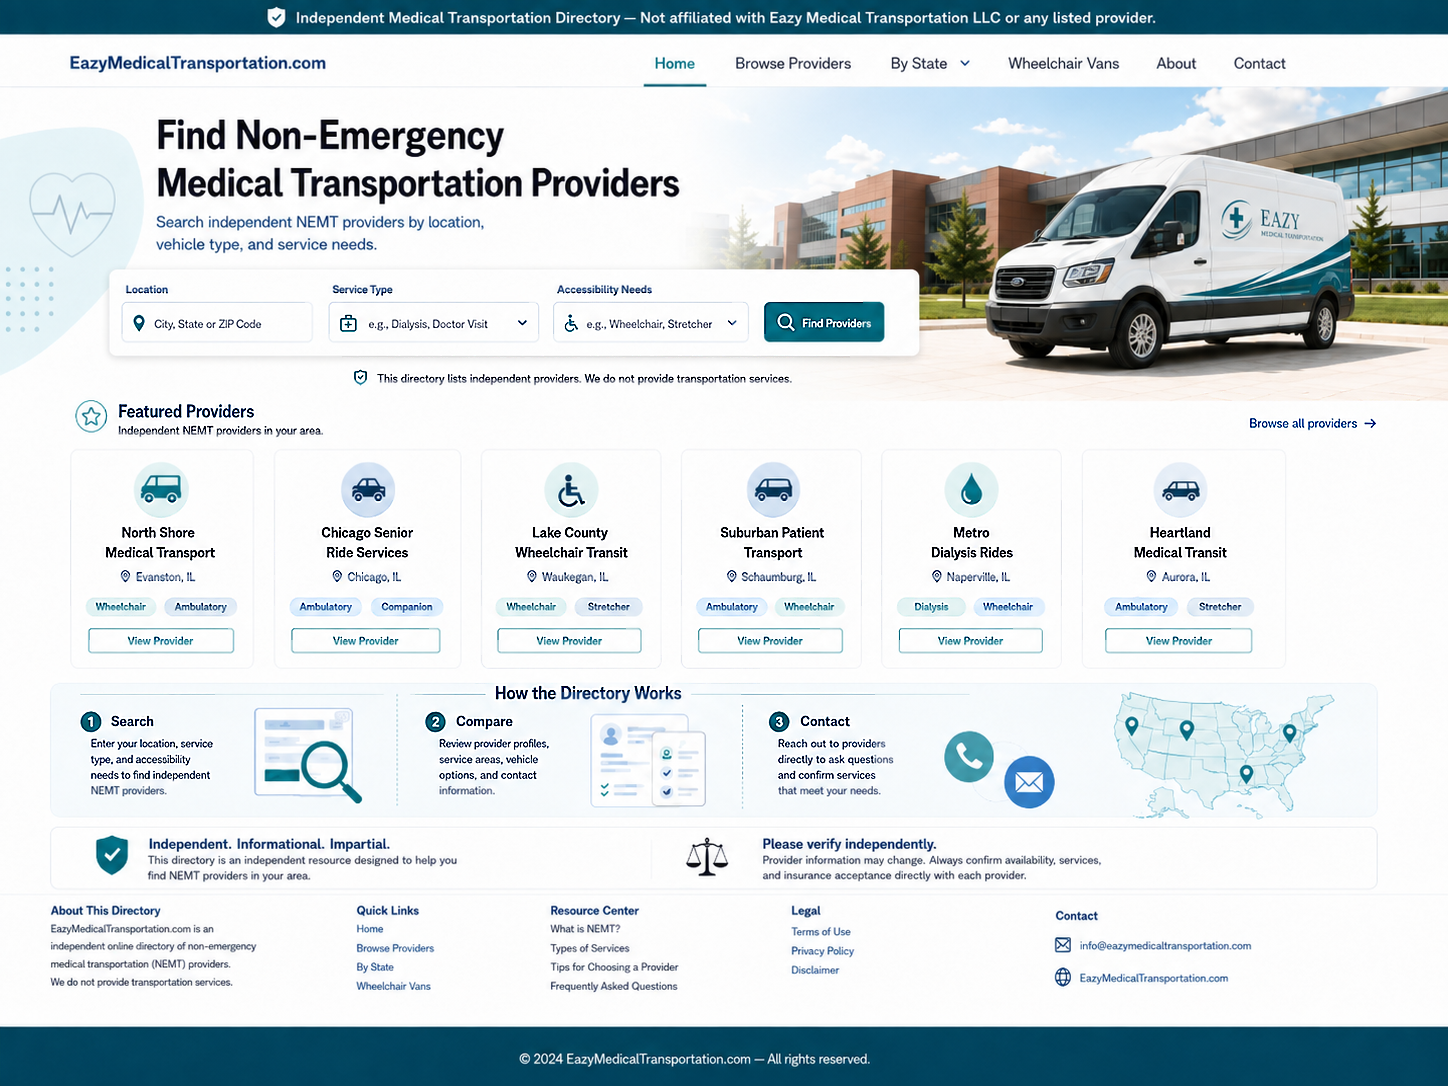
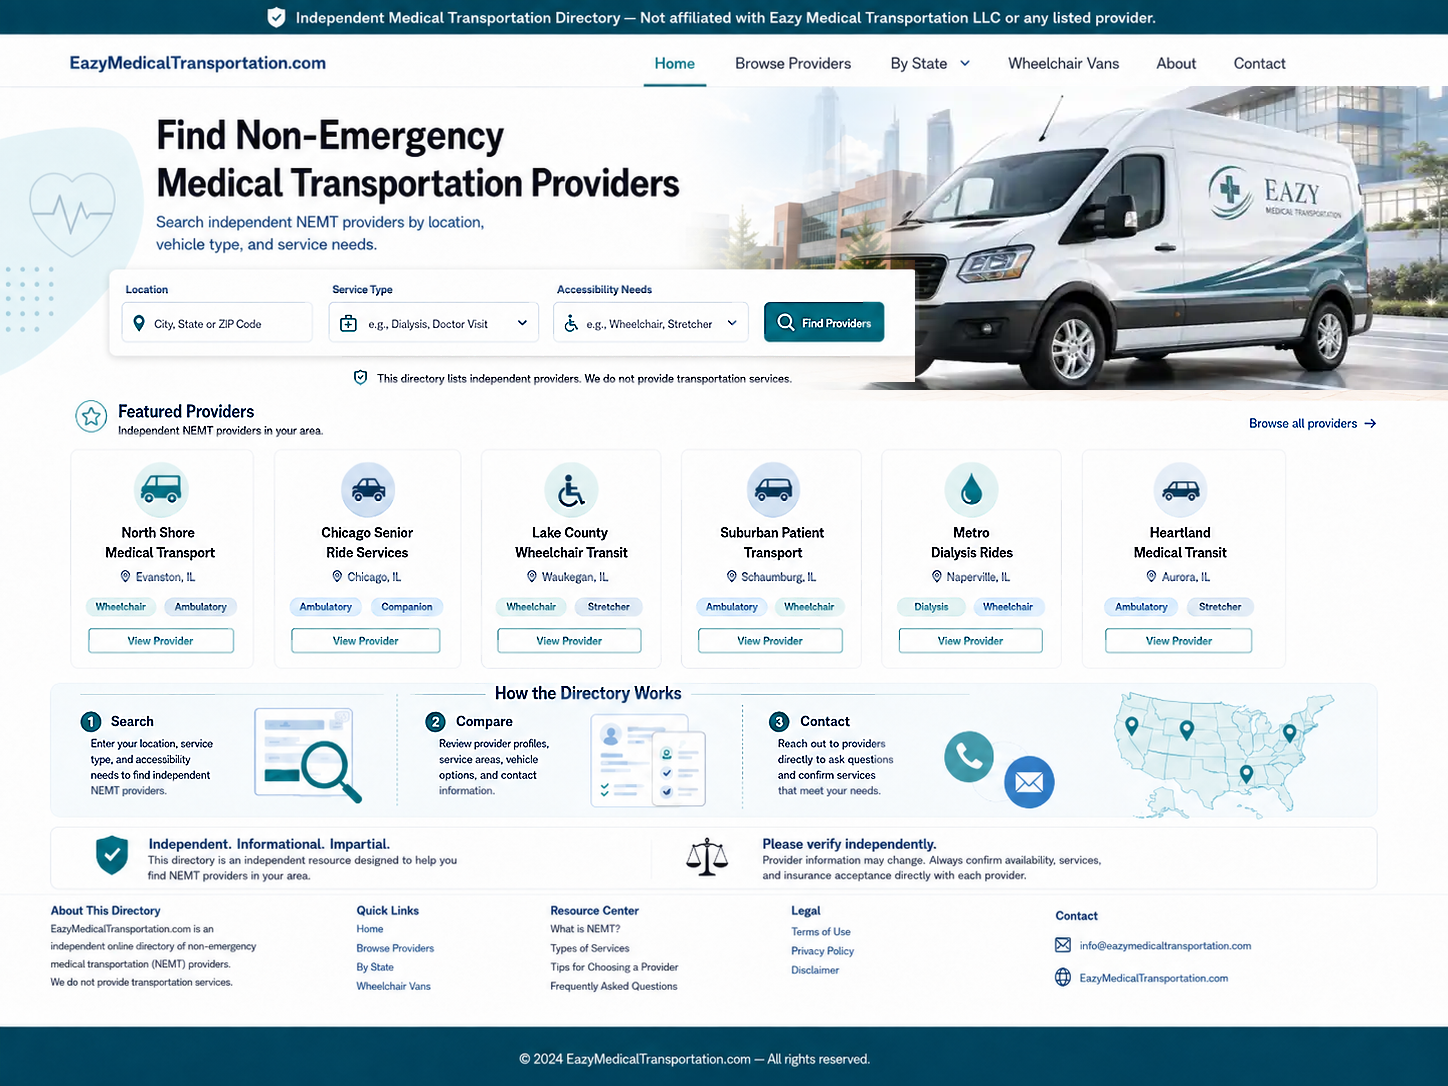
Bake replacement van scene into landing PNG

Changed region(s): [[0.5594, 0.0608, 1.0, 0.3646]]

diff --git a/index.html b/index.html
@@ -12,7 +12,6 @@ body{overflow-x:hidden;font-family:Arial,Helvetica,sans-serif}
 .directory-shell{width:100%;margin:0;background:#fff}
 .stage{position:relative;width:100%;margin:0}
 #directory-image{display:block;width:100%;height:auto;margin:0;border:0}
-#hero-scene-overlay{position:absolute;left:60.08%;top:7.73%;width:39.92%;height:28.18%;object-fit:fill;z-index:2;pointer-events:none}
 .hotspot{position:absolute;border:0;background:transparent;color:transparent;padding:0;margin:0;cursor:pointer;z-index:5}
 .hotspot:focus-visible{outline:2px solid #087f96;outline-offset:2px}
 .live-field{position:absolute;z-index:6;border:0;outline:0;background:transparent;color:transparent;font:500 clamp(8px,0.78vw,13px)/1 Arial,Helvetica,sans-serif;padding:0 .7%;appearance:none}
@@ -39,7 +38,6 @@ body{overflow-x:hidden;font-family:Arial,Helvetica,sans-serif}
 <main class="directory-shell">
   <div class="stage" id="stage">
     <img id="directory-image" src="directory-landing-approved.png" alt="Independent Medical Transportation Directory">
-    <img id="hero-scene-overlay" src="hero-scene-overlay.webp" alt="">
 
     <button class="hotspot" aria-label="Home" style="left:43.3%;top:4.35%;width:4.8%;height:3.6%" onclick="scrollRatio(0)"></button>
     <button class="hotspot" aria-label="Browse Providers" style="left:48.9%;top:4.35%;width:9.6%;height:3.6%" onclick="scrollRatio(.37)"></button>
